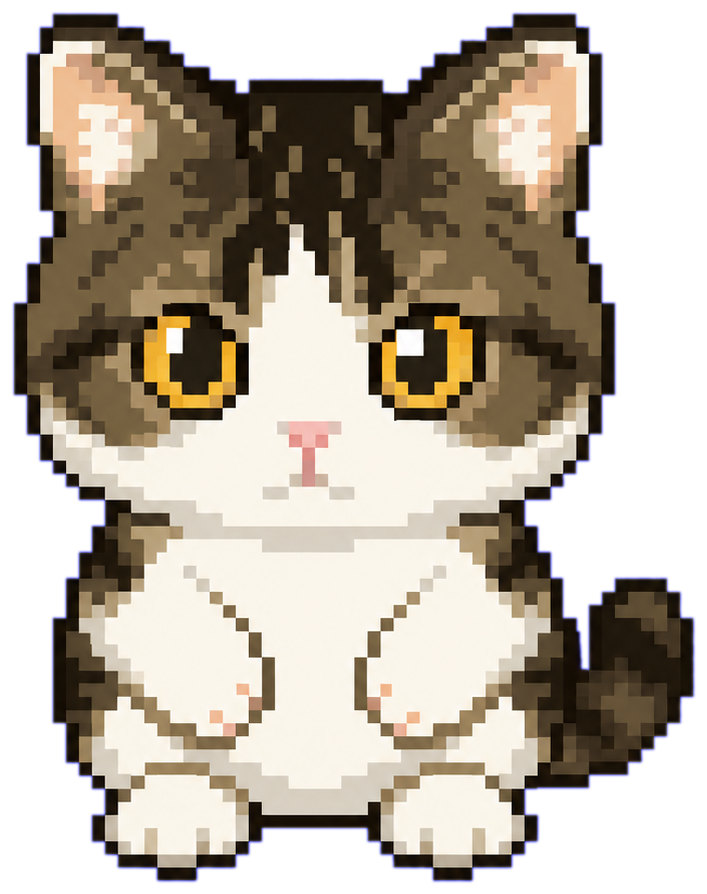
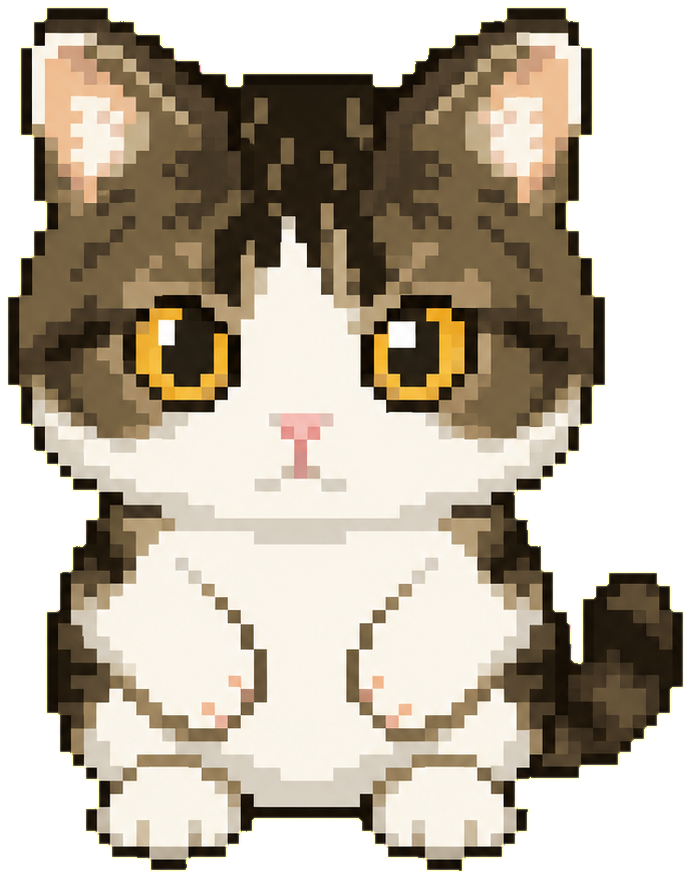
fix: defringe cutouts (remove edge frame), object-fit contain (preserve aspect), wider naiwa crop

Changed region(s): [[0.0, 0.0, 1.0, 1.0], [0.5783, 0.6458, 0.6391, 0.6765], [0.4261, 0.5228, 0.4565, 0.5535]]

diff --git a/lib/index.js b/lib/index.js
@@ -140,7 +140,7 @@ var css = [
   '.dshwv-root.dshwv-left{transform:scaleX(-1)}',
   '.dshwv-root.dshwv-dragging{cursor:grabbing;transition:none}',
   '.dshwv-body{position:absolute;left:0;top:0;width:100%;height:100%;transform-origin:50% 100%;transition:transform .22s cubic-bezier(.34,1.56,.64,1)}',
-  '.dshwv-img{position:absolute;right:0;bottom:0;width:59.45%;height:59.45%;display:block;pointer-events:none;-webkit-user-drag:none;user-select:none}',
+  '.dshwv-img{position:absolute;right:0;bottom:0;width:59.45%;height:59.45%;display:block;pointer-events:none;-webkit-user-drag:none;user-select:none;object-fit:contain}',
   '.dshwv-bubble{position:absolute;left:0;top:0;width:100%;aspect-ratio:1026/700;pointer-events:none;z-index:1;--dshw-u:calc(var(--dshw-base) / 1026)}',
   '.dshwv-bubble svg{display:block;width:100%;height:100%;pointer-events:none}',
   '.dshwv-bubble svg path,.dshwv-bubble svg ellipse{pointer-events:none;cursor:pointer}',

diff --git a/preview.html b/preview.html
@@ -17,7 +17,7 @@
   .btxt .amount{font-size:calc(var(--u)*128);font-weight:800;line-height:1.05}
   .btxt .period{font-size:calc(var(--u)*76);font-weight:700;color:#7a92c9}
   /* 角色（跳跳喵） */
-  .char{position:absolute;right:0;bottom:0;width:59.45%;height:59.45%;display:block;animation:bob 2.8s ease-in-out infinite;transform-origin:50% 100%;cursor:grab;pointer-events:auto;-webkit-user-drag:none}
+  .char{position:absolute;right:0;bottom:0;width:59.45%;height:59.45%;display:block;object-fit:contain;animation:bob 2.8s ease-in-out infinite;transform-origin:50% 100%;cursor:grab;pointer-events:auto;-webkit-user-drag:none}
   .char:active{cursor:grabbing;animation:none;transform:scale(.92);transition:transform .18s cubic-bezier(.34,1.56,.64,1)}
   @keyframes bob{0%,100%{transform:translateY(0) scale(1)}50%{transform:translateY(-1.5%) scale(1.012)}}
   /* 菜单按钮（装饰） */
